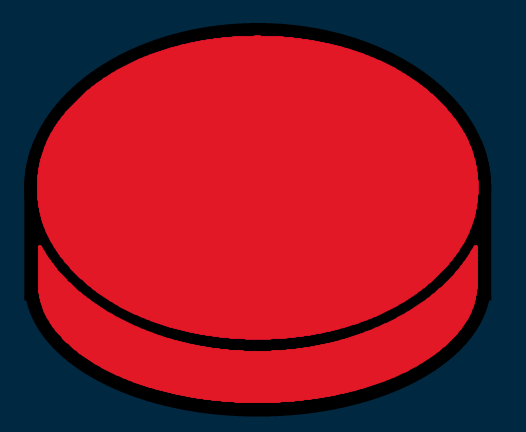
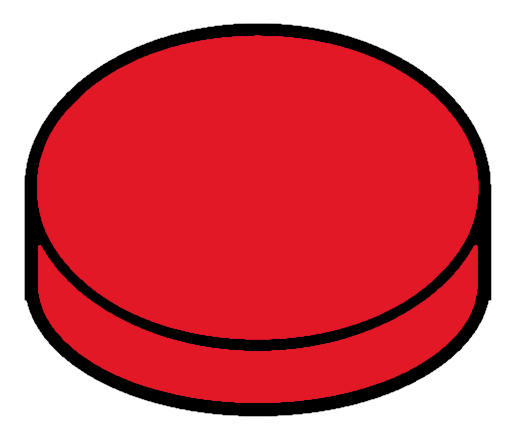
Additional Graphics changes
-Reconfigured how the admit/deny buttons look, they now brighten when on and outline white when hovered over.
-Sped up the players dialogue and fixed a bug with the text sometimes going out of the bounds of the bubble graphic
-Removed the redundant directions scene
-Cleaned up some of the UI text during coroutines so that text in the options tab doesn't linger, etc.

diff --git a/Assets/Scripts/GameController.cs b/Assets/Scripts/GameController.cs
@@ -24,7 +24,9 @@ public class GameController : MonoBehaviour
 
     public TMP_Text optionA, optionB, responseBubble, responseText, questionBubble, questionText;
     public UnityEngine.UI.Button buttonA, buttonB, admit, deny;
-    public float typingSpeed = 0.05f; // time before displaying between each letter
+    public Sprite admitOn, denyOn, admitOff, denyOff;
+    public float playerTypingSpeed = 0.01f; // time before displaying between each letter for the player text
+    public float npcTypingSpeed = 0.05f; // time before displaying between each letter for the npc text
 
     public int numOfRefugees;
     public int minHumans, maxHumans;
@@ -134,6 +136,10 @@ public class GameController : MonoBehaviour
         // Allow a decision
         admit.onClick.AddListener(() => OnDecision(true)); // True for the Admit Button
         deny.onClick.AddListener(() => OnDecision(false)); // False for the Deny Button
+        admit.image.sprite = admitOn; // Change the sprite to the ON state
+        deny.image.sprite = denyOn; // Change the sprite to the ON state
+        admit.GetComponent<ButtonEvents>().on = true; // Update the Button Events script so that the hover graphics appear
+        deny.GetComponent<ButtonEvents>().on = true; // Update the Button Events script so that the hover graphics appear
 
         // Wait until the player selects an option (either admit or deny)
         yield return new WaitUntil(() => decisionMade);
@@ -141,6 +147,10 @@ public class GameController : MonoBehaviour
         // Disable decisions
         admit.onClick.RemoveAllListeners(); // True for the Admit Button
         deny.onClick.RemoveAllListeners(); // False for the Deny Button
+        admit.image.sprite = admitOff; // Change the sprite to the OFF state
+        deny.image.sprite = denyOff; // Change the sprite to the OFF state
+        admit.GetComponent<ButtonEvents>().on = false; // Update the Button Events script so that the hover graphics dont appear
+        deny.GetComponent<ButtonEvents>().on = false; // Update the Button Events script so that the hover graphics dont appear
 
         // Adjust game state based on decision outcome
         if (humans[0])
@@ -166,7 +176,6 @@ public class GameController : MonoBehaviour
         // Remove the last interview from the list
         humans.RemoveAt(0);
 
-        // TODO: Animation of the character's fate
         // Use decision == false for denied, decision == true for admitted
         if(decision == false)
         {
@@ -267,16 +276,23 @@ public class GameController : MonoBehaviour
 
     private IEnumerator DisplayMessages(string question, string response)
     {
+        // Clear the question options
+        optionA.SetText("");
+        optionB.SetText("");
+
+        // Hide the npc's dialogue bubble
+        responseBubble.gameObject.SetActive(false);
+
         // Start typing the first message in responseBubble
         questionBubble.gameObject.SetActive(true);
-        yield return StartCoroutine(TypeText(questionText, questionBubble, question));
+        yield return StartCoroutine(TypeText(questionText, questionBubble, question, playerTypingSpeed));
         
         // After the first message finishes, start typing the second message in textBubble
         responseBubble.gameObject.SetActive(true);
-        yield return StartCoroutine(TypeText(responseText, responseBubble, response));
+        yield return StartCoroutine(TypeText(responseText, responseBubble, response, npcTypingSpeed));
     }
 
-    private IEnumerator TypeText(TMP_Text textComponent, TMP_Text bubbleTextComponent, string message)
+    private IEnumerator TypeText(TMP_Text textComponent, TMP_Text bubbleTextComponent, string message, float speed)
     {
         // Clear previous text
         textComponent.text = "";
@@ -287,7 +303,7 @@ public class GameController : MonoBehaviour
         {
             textComponent.text += letter; // Add one letter at a time
             bubbleTextComponent.text += letter; // Add one letter at a time
-            yield return new WaitForSeconds(typingSpeed); // Wait before next letter
+            yield return new WaitForSeconds(speed); // Wait before next letter
         }
     }
 

diff --git a/Assets/Scripts/ButtonEvents.cs b/Assets/Scripts/ButtonEvents.cs
@@ -1,14 +1,16 @@
 using System.Collections;
 using System.Collections.Generic;
 using TMPro;
+using Unity.VisualScripting;
 using UnityEngine;
 using UnityEngine.UI;
 
 public class ButtonEvents : MonoBehaviour
 {
     public TMP_Text buttonText;
-    public Sprite selectedImage, unselectedImage;
+    public GameObject selectedImage;
     private Button button;
+    public bool on;
 
     public void Start()
     {
@@ -26,11 +28,15 @@ public class ButtonEvents : MonoBehaviour
     }
     public void OnHoverEnterImage()
     {
-        button.image.sprite = selectedImage;
+        if(on)
+        {
+            selectedImage.SetActive(true);
+        }
     }
 
     public void OnHoverExitImage()
     {
-        button.image.sprite = unselectedImage;
+        selectedImage.SetActive(false);
+
     }
 }
